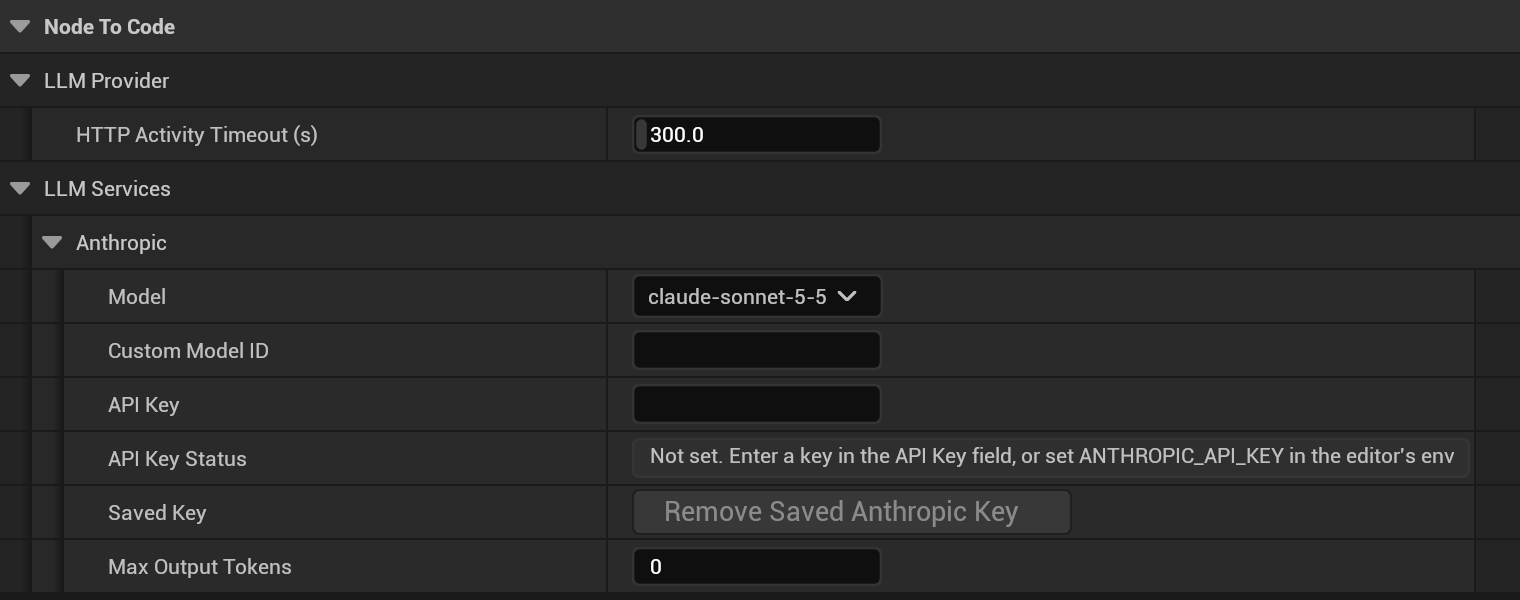
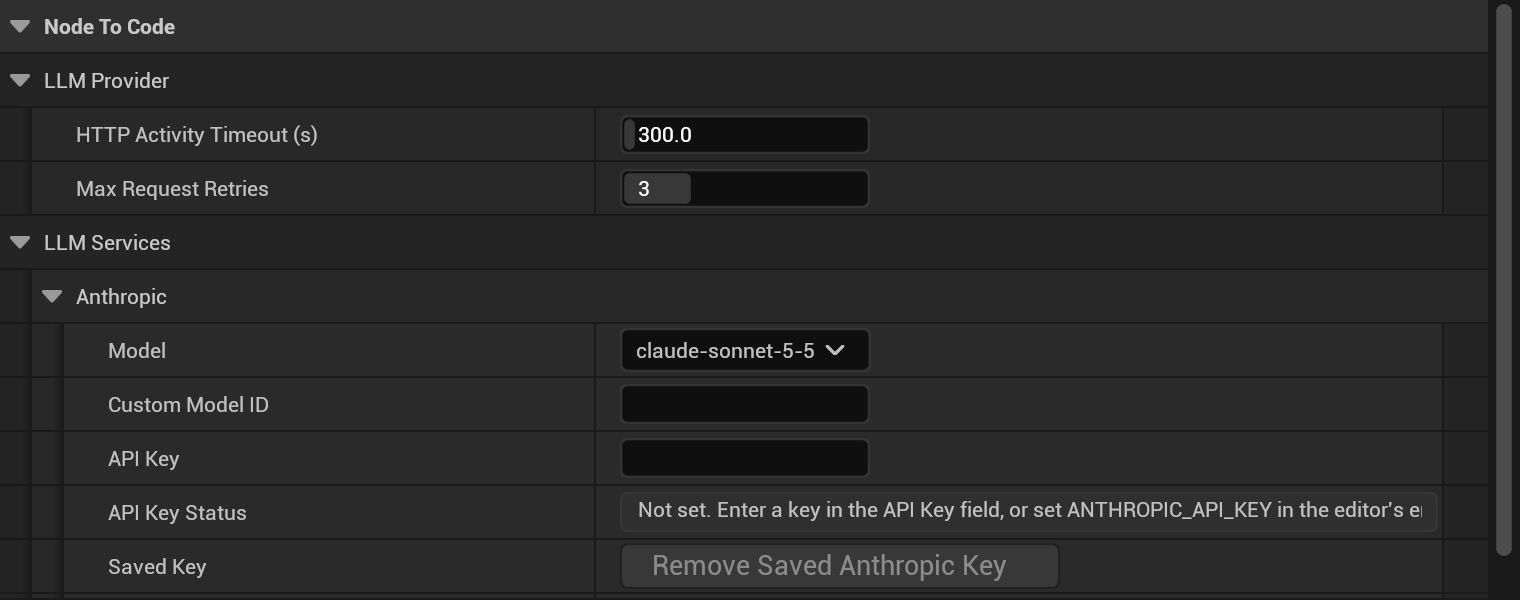
docs(shots): retake main-window, settings and translate-entry after #303-#315, and embed the four settings shots (card 0531)
`tools/docs_check.py --stale` on dev-2.0 reported SHOT_STALE for the main-window, settings and translate-entry
groups (surfaces changed by #303, #304, #306, #308, #309 and #310) and IMAGE_ORPHAN for all four
wiki/images/settings/*.png.

- capture.py --group all --repeat-check on 85529cb (#315): all three groups identical across two runs. The recording
  run changed two pictures: settings/llm-provider.png now has 0215's Max Request Retries row next to 0488's Remove
  Saved Anthropic Key button (the #310/#311 conflict had kept 0488's picture), and main-window/tag-manager.png. The
  other six are byte-identical; shots.json restamps all nine.
- Embeds: settings/user.png replaces the 1.x plugin-settings JPG on Initial-Configuration;
  settings/llm-provider.png on Provider-Configuration; settings/code-generation.png on Target-Language-Settings;
  settings/mcp-server.png on developers/Choosing-a-Tool-Mode (Connecting-an-MCP-Client is already over its page
  budget).
- docs_check --stale: no SHOT_STALE or IMAGE_ORPHAN left.

diff --git a/wiki/Provider-Configuration.md b/wiki/Provider-Configuration.md
@@ -12,6 +12,8 @@ name, with the ID the list shows). **Custom Model ID**, when set, is sent instea
 your Node to Code version. Node to Code then has no context size or price for it; add one under
 [Model Price Overrides](#model-price-overrides) to see costs.
 
+<img src="images/settings/llm-provider.png" alt="Project Settings, LLM Provider: HTTP Activity Timeout and Max Request Retries, then the Anthropic section with Model, Custom Model ID, API Key, API Key Status and the Remove Saved Anthropic Key button" width="760">
+
 ### [Anthropic](LLM-Provider-Documentation-&-Resources#anthropic-claude)
 - **API Key**: Enter your Claude API key and press Enter; it is saved to Windows Credential Manager and the field empties. **API Key Status** shows where the key in use comes from
 - **Model**:

diff --git a/wiki/Target-Language-Settings.md b/wiki/Target-Language-Settings.md
@@ -12,6 +12,11 @@ Choose the output programming language:
 - Swift (VisionOS or iOS)
 - Pseudocode (Great for communicating language-agnostic code!)
 
+**Target Language** is in **Project Settings → Plugins → Node to Code → Code Generation**, beside
+[Max Translation Depth](Max-Translation-Depth) and [Reference Source Files](Reference-Source-Files):
+
+<img src="images/settings/code-generation.png" alt="Project Settings, Code Generation: Target Language (C++), Max Translation Depth, Estimated Reference File Tokens and Reference Source Files" width="760">
+
     <p align="left">
         <img src="https://github.com/protospatial/NodeToCode/blob/main/assets/Image_NodeToCode_TargetLanguages.png" alt="Node to Code header" width="400">
     </p>

diff --git a/wiki/Initial-Configuration.md b/wiki/Initial-Configuration.md
@@ -24,9 +24,7 @@ API keys.
 The provider picker in the Node to Code window and the Get Started card save the provider to your own settings and a
 model choice to the project's.
 
-<p align="left">
-    <img src="https://github.com/protospatial/NodeToCode/blob/main/assets/Image_NodeToCode_PluginSettings.jpg" alt="Node to Code plugin settings" width="750">
-</p>
+<img src="images/settings/user.png" alt="Editor Preferences, Node to Code (User): Provider, LM Studio Server Endpoint, the MCP Server switches (Server Port, Enable MCP Server, Allow MCP Python Execution, Allow MCP Writes Outside Project, Require MCP Bearer Token), My Reference Source Files and Custom Translation Output Directory" width="760">
 
 ## Settings
 

diff --git a/wiki/developers/Choosing-a-Tool-Mode.md b/wiki/developers/Choosing-a-Tool-Mode.md
@@ -7,6 +7,8 @@ All of them are in **Project Settings → Plugins → Node to Code → MCP Serve
 need an editor restart; then reconnect your client. The list never changes while the editor runs, so a client that
 reads it once (as most do) stays correct. Every client gets the same list.
 
+<img src="../images/settings/mcp-server.png" alt="Project Settings, MCP Server: Port Fallback Range, Server Status, Tool Profile, Tool Exposure, Overlapping Tools and MCP Client Config" width="760">
+
 ## Tool Profile
 
 | Tool Profile | What the client gets | Tools |
